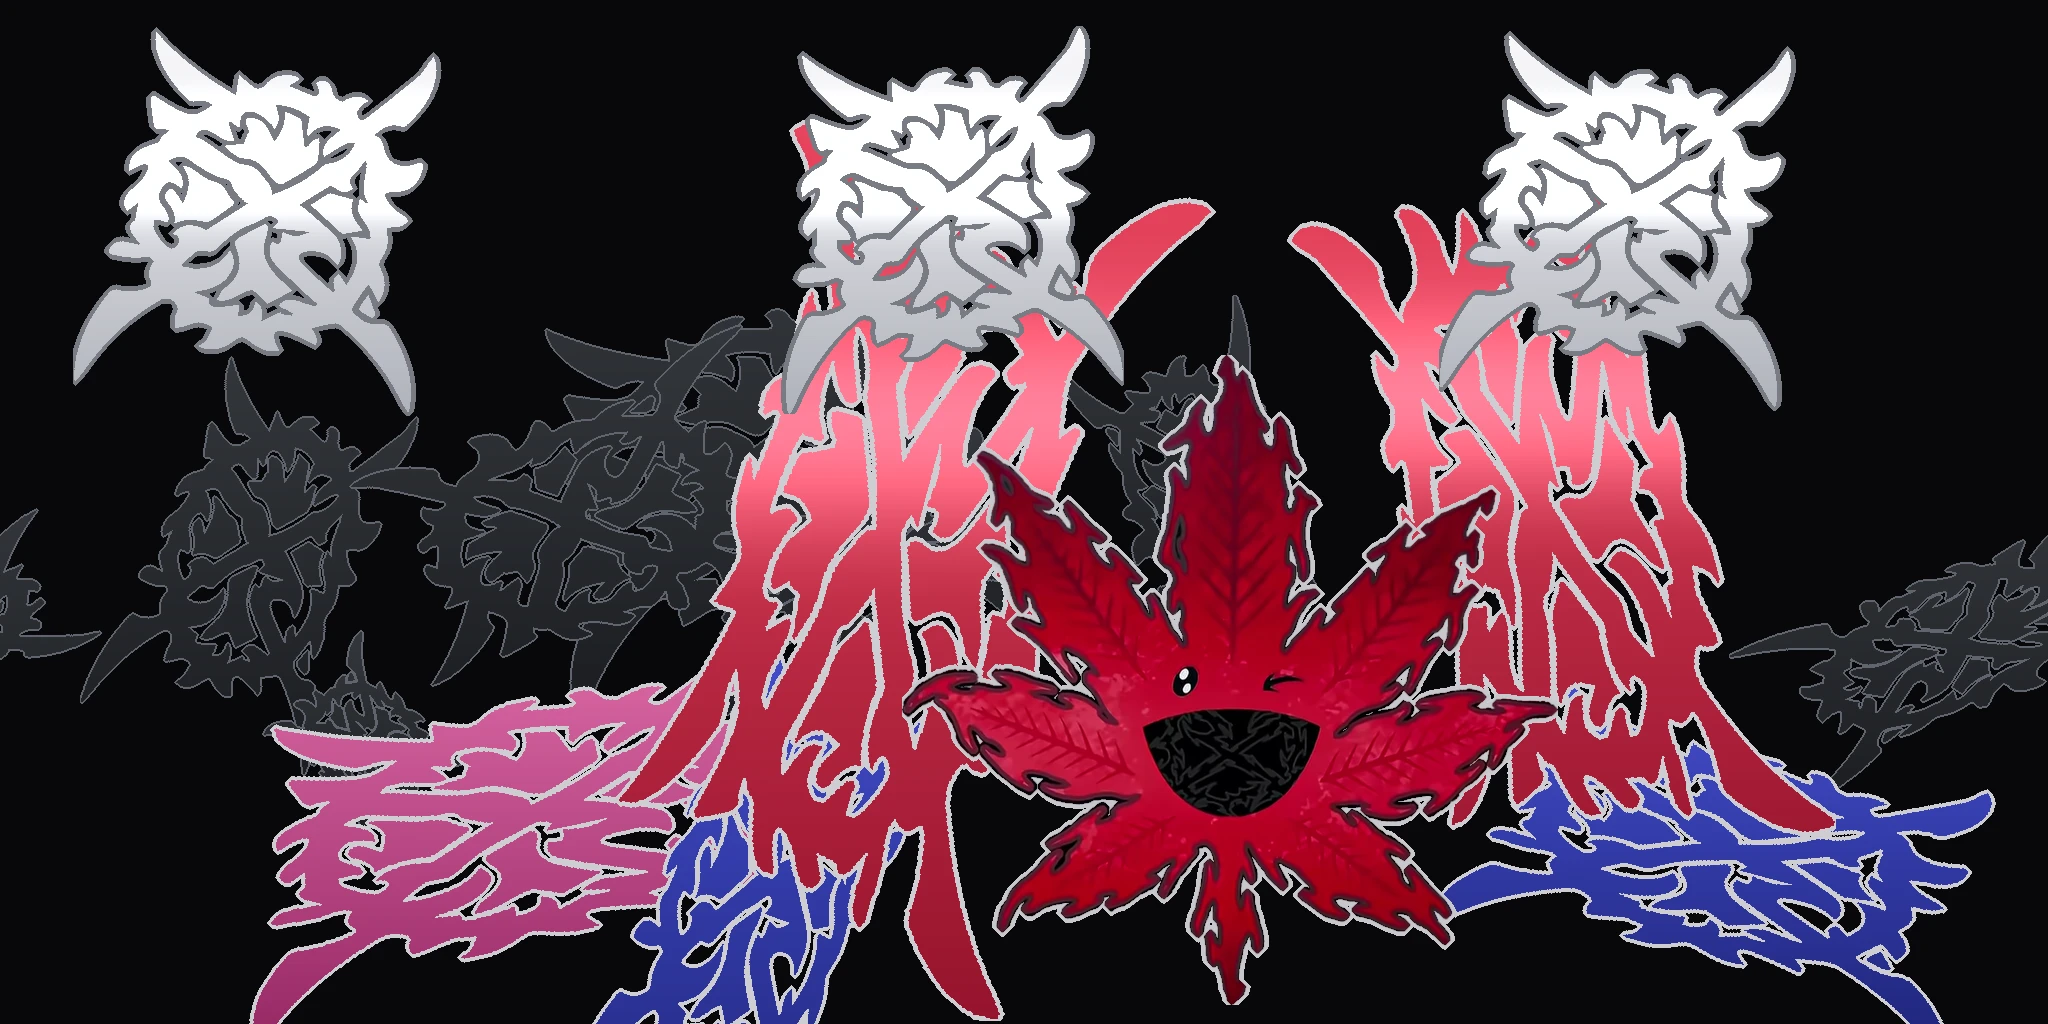
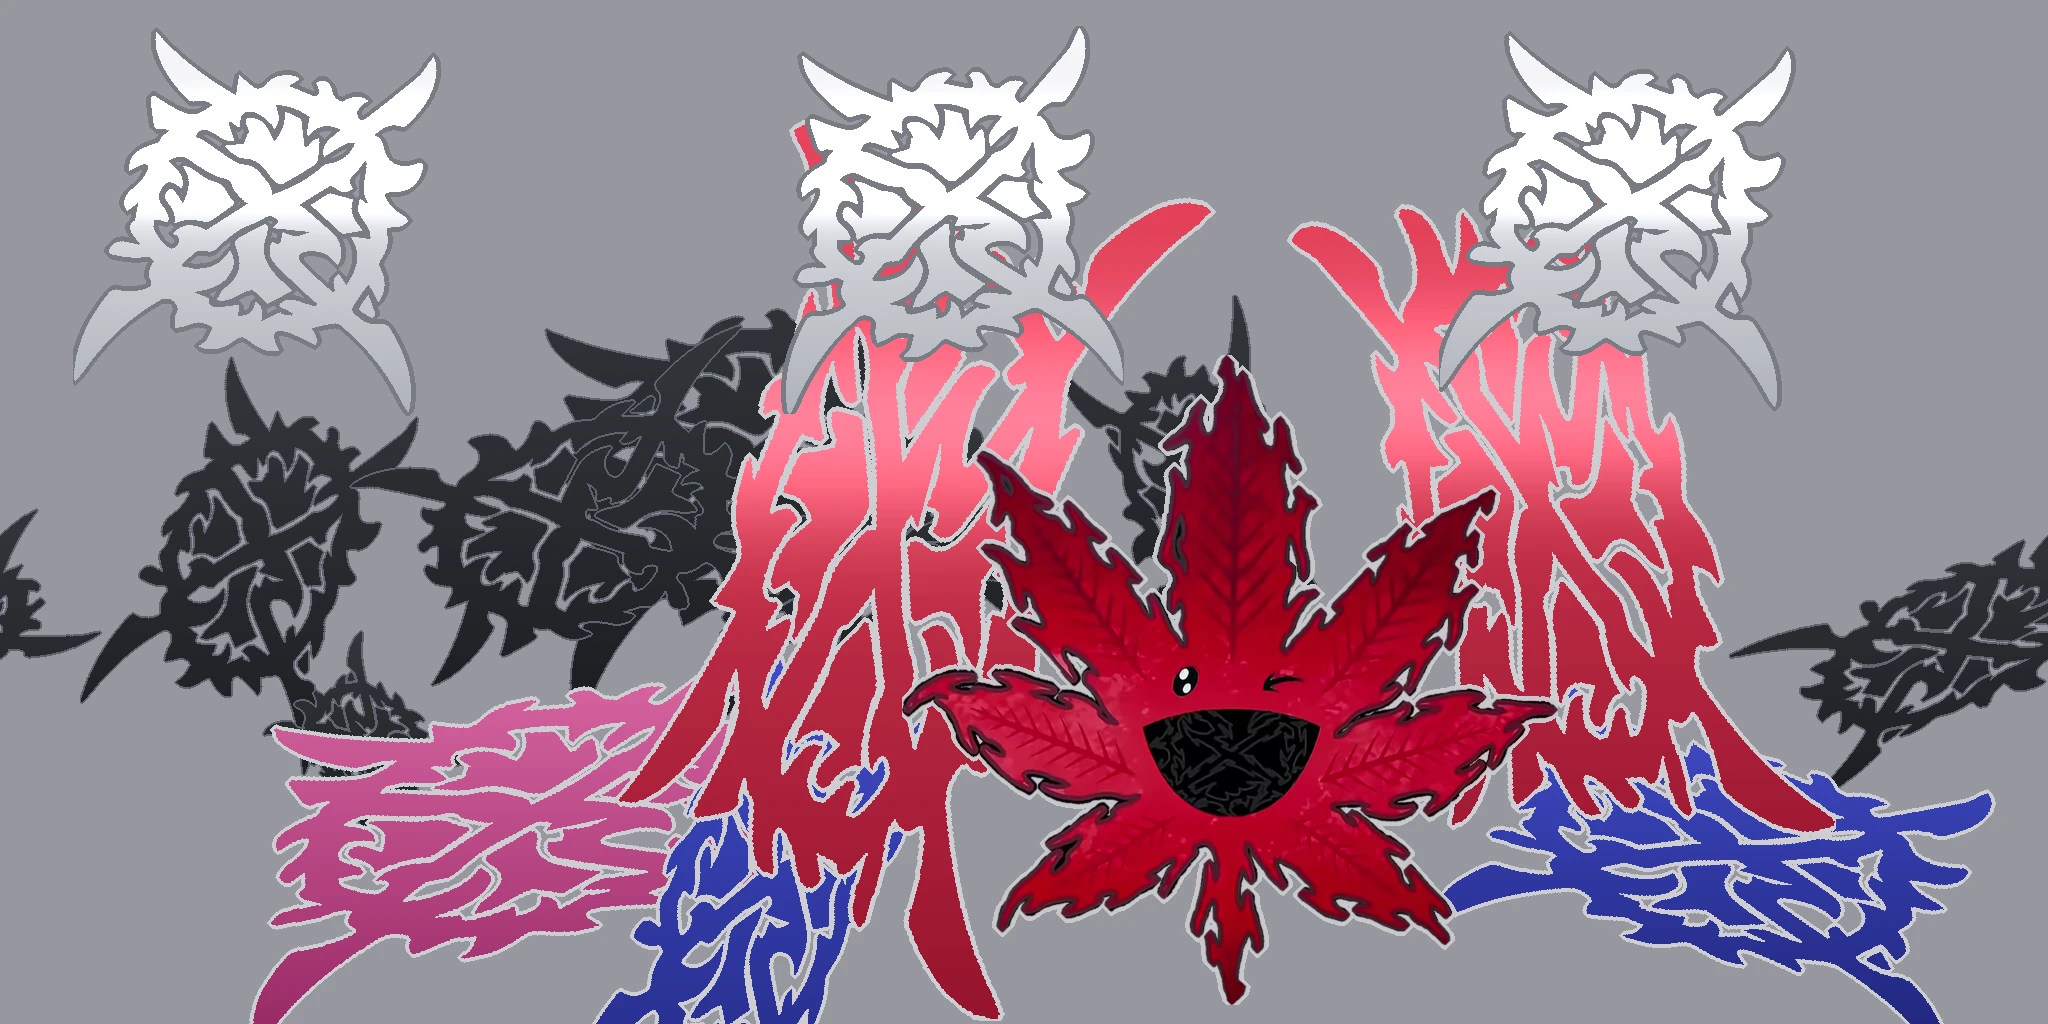
Jar: brushed gunmetal tin instead of glossy black plastic
- Bare metal (label background, body ends, lid) is metallic gunmetal with a
  brushed roughness map; the printed art is matte (metalness masks baked
  from the label and lid art); thin clear coat.
- The reflection studio gets a dim grey room and a big soft top panel so the
  metal has something to reflect; the floating lid's top is toned down so it
  doesn't wash out under the top light.

Claude-Session: https://claude.ai/code/session_015rc9MQC6xqspTEWMJWTMxb

diff --git a/jar/jar.js b/jar/jar.js
@@ -34,6 +34,10 @@ export function mount(box) {
   panel(1.2, 6, '#ffffff', 4, [5, 1, 1], [0, 0, 0])
   panel(6, 3, '#ff1030', 0.9, [0, -4, 1], [0, 0, 0])   // a red bounce from below, not a red room
   panel(3, 2, '#ffffff', 1.5, [0, 2, 6], [0, 0, 0])
+  // a dim grey room and a big soft panel overhead, so brushed metal has something to reflect (pure black reads as plastic)
+  studio.background = new THREE.Color('#5a5a62')
+  panel(10, 10, '#ffffff', 2.2, [0, 6, 0], [0, 0, 0])
+  panel(10, 3, '#ffffff', 0.6, [0, 1, -6], [0, 0, 0])
   scene.environment = pm.fromScene(studio, 0.03).texture
 
   const tl = new THREE.TextureLoader()
@@ -42,11 +46,28 @@ export function mount(box) {
   // ---- the jar ----
   const R = 0.5, BODY_H = 1.28, LID_H = 0.3, LID_R = 0.525   // about 1 : 1.6 like the video's jar
   const jar = new THREE.Group(); scene.add(jar)
-  const gloss = (map) => new THREE.MeshPhysicalMaterial({ color: '#ffffff', map, roughness: 0.32, clearcoat: 1, clearcoatRoughness: 0.04, envMapIntensity: 1.1 })
-  const black = new THREE.MeshPhysicalMaterial({ color: '#0b0b0d', roughness: 0.3, clearcoat: 1, clearcoatRoughness: 0.04 })
+  // brushed metal: a roughness map of fine horizontal streaks (around the jar), so the reflections smear sideways
+  const brushed = (() => {
+    const c = document.createElement('canvas'); c.width = 512; c.height = 512
+    const g = c.getContext('2d'); g.fillStyle = 'rgb(95,95,95)'; g.fillRect(0, 0, 512, 512)
+    for (let i = 0; i < 2600; i++) {
+      const y = Math.random() * 512, v = 70 + Math.random() * 60
+      g.fillStyle = `rgba(${v},${v},${v},0.55)`; g.fillRect(0, y, 512, 0.6 + Math.random() * 1.4)
+    }
+    const t = new THREE.CanvasTexture(c); t.wrapS = t.wrapT = THREE.RepeatWrapping; return t
+  })()
+  const metal = (map, metalMap) => {
+    const r = brushed.clone(); r.needsUpdate = true; r.repeat.set(1, 6)
+    // printed tin: bare gunmetal shines (brushed reflections), the printed ink is matte (metalnessMap), thin clear coat
+    const m = new THREE.MeshPhysicalMaterial({ color: map ? '#ffffff' : '#96989e', map, metalness: 1, roughness: 0.4, roughnessMap: r,
+      clearcoat: 0.3, clearcoatRoughness: 0.2, envMapIntensity: 1.6 })
+    if (metalMap) { const t = tl.load(BASE + metalMap); m.metalnessMap = t }
+    return m
+  }
+  const black = metal(null)
 
   // label: the straight side, front of the art (u = 0.5) facing the camera
-  const side = new THREE.Mesh(new THREE.CylinderGeometry(R, R, BODY_H, 128, 1, true, -Math.PI, Math.PI * 2), gloss(tex('label.webp')))
+  const side = new THREE.Mesh(new THREE.CylinderGeometry(R, R, BODY_H, 128, 1, true, -Math.PI, Math.PI * 2), metal(tex('label.webp'), 'label_metal.webp'))
   side.position.y = BODY_H / 2; jar.add(side)
   // rounded base and shoulder (black glass)
   const lathe = (pts) => new THREE.LatheGeometry(pts.map(([x, y]) => new THREE.Vector2(x, y)), 128)
@@ -69,11 +90,13 @@ export function mount(box) {
   lid.add(lidSide)
   const lidUnder = new THREE.Mesh(new THREE.CircleGeometry(R - 0.035, 64), new THREE.MeshStandardMaterial({ color: '#0a0a0c', roughness: 0.5 }))
   lidUnder.rotation.x = Math.PI / 2; lidUnder.position.y = 0.002; lid.add(lidUnder)   // the lid's underside, seen when it lifts
-  const lidTop = new THREE.Mesh(new THREE.CircleGeometry(0.44, 96), gloss(tex('lid.webp')))
+  const lidTop = new THREE.Mesh(new THREE.CircleGeometry(0.44, 96), metal(tex('lid.webp'), 'lid_metal.webp'))
+  // the top faces the overhead light when the lid floats: darker metal, softer reflection, so it reads like the body
+  lidTop.material.envMapIntensity = 0.5; lidTop.material.color.set('#6a6a6e'); lidTop.material.clearcoat = 0.1
   lidTop.rotation.x = -Math.PI / 2; lidTop.position.y = LID_H + 0.001; lid.add(lidTop)
   // ribs on the lid side
   const ribs = new THREE.Mesh(new THREE.CylinderGeometry(LID_R + 0.002, LID_R + 0.002, LID_H * 0.5, 96, 1, true),
-    new THREE.MeshPhysicalMaterial({ color: '#0b0b0d', roughness: 0.45, clearcoat: 0.6, transparent: true, opacity: 0.6 }))
+    new THREE.MeshPhysicalMaterial({ color: '#2a2b2e', metalness: 0.9, roughness: 0.5, transparent: true, opacity: 0.6, envMapIntensity: 1.5 }))
   ribs.position.y = LID_H * 0.42; lid.add(ribs)
   jar.position.y = -(BODY_H + LID_H) / 2
 

diff --git a/jar/index.html b/jar/index.html
@@ -31,7 +31,7 @@ document.body.appendChild(MBNav.create({
 </script>
 <script type="importmap">{ "imports": { "three": "./vendor/three.module.min.js" } }</script>
 <script type="module">
-import { mount } from './jar.js?v=11'
+import { mount } from './jar.js?v=19'
 window.__jar = mount(document.getElementById('jar'))
 // header leaf: the site's stacked-alpha still (colour on top, mask below) painted into the canvas
 const im = new Image(); im.onload = () => {
